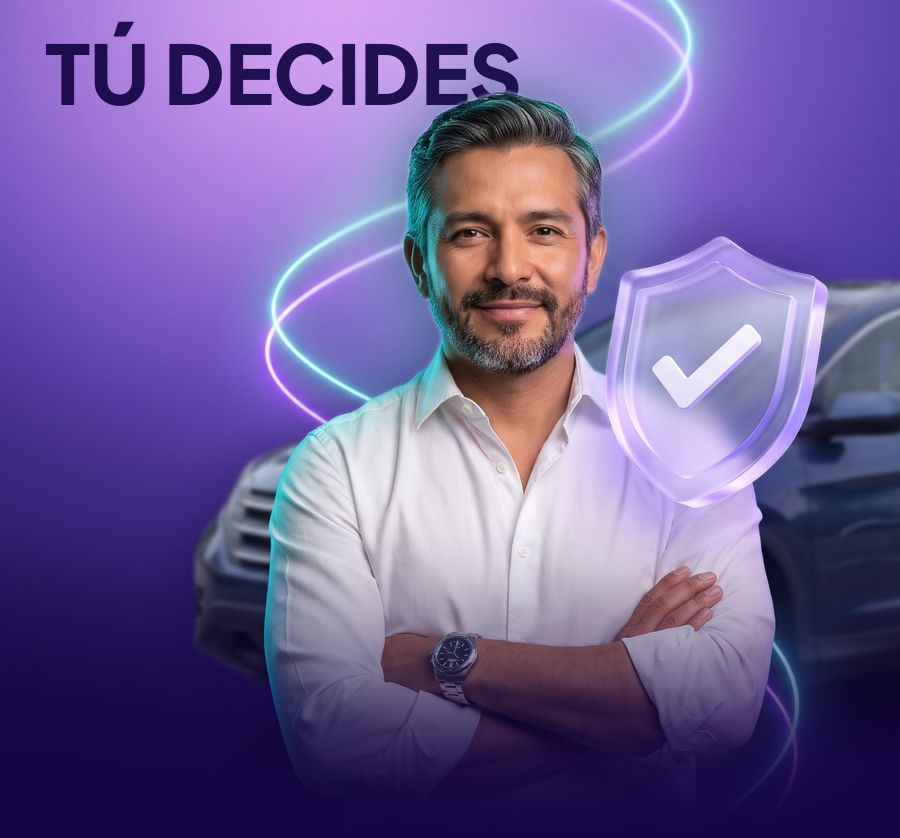
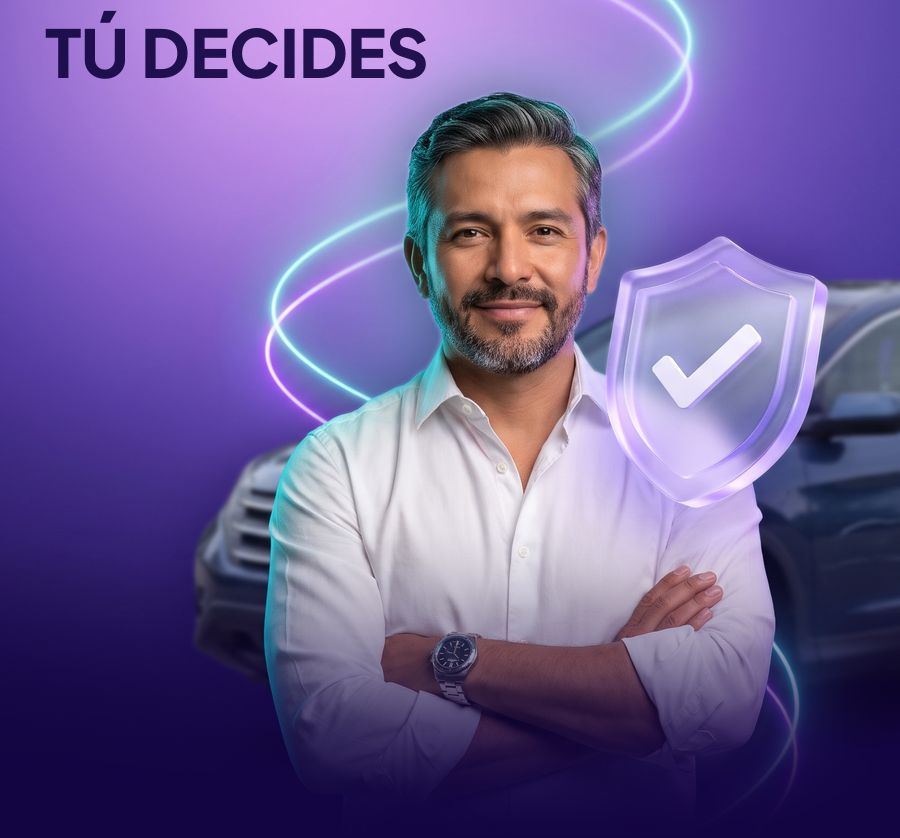
feat(correos): Revendedores 5 con «TÚ DECIDES» libre de la cabeza y valorizar gratis en 3 y 6

Changed region(s): [[0.0311, 0.0, 0.5911, 0.1241]]

diff --git a/src/emails/boletines/campanaRevendedores.ts b/src/emails/boletines/campanaRevendedores.ts
@@ -99,19 +99,19 @@ const DEFS: Def[] = [
     id: 'revendedores-3-como-funciona',
     name: 'Revendedores 3 — cómo funciona: valoriza, publica, recibe propuestas y negocia',
     subject: 'Así publicas tu carro en VMC, paso a paso',
-    preheader: 'Valoriza, publica en Negociable, recibe propuestas y negocia.',
+    preheader: 'Valoriza gratis, publica en Negociable, recibe propuestas y negocia.',
     stage: 'Cómo funciona', leadsTo: ['revendedores-4-costos'],
     hero: hero({ img: `${HERO}/revendedores-3.jpg`, imgM: `${HERO}/revendedores-3-m.jpg`, bg: '#422515', alt: 'Paso a paso — Revendedor fotografía su camioneta para publicarla', eyebrow: 'Cómo funciona', title: `Valoriza, publica y ${acc('negocia tus propuestas')}.`, text: 'Todo desde Mi Garaje: pones tu unidad en venta y negocias con compradores de VMC.', cta: 'Valorizar mi carro', url: VALORIZA_URL }),
     body: [
       HOLA, gap(8),
       p('Ya conoces Negociable desde el lado del comprador: envías una propuesta y esperas la respuesta. Ahora te toca el otro lado.'),
       gap(16),
-      p(`Empiezas valorizando tu carro para tener una referencia antes de definir tu expectativa de venta. Luego lo publicas en modalidad Negociable y ${b('las propuestas llegan a tu Mi Garaje')}.`),
+      p(`Empiezas valorizando tu carro, que es gratis, para tener una referencia antes de definir tu expectativa de venta. Luego lo publicas en modalidad Negociable y ${b('las propuestas llegan a tu Mi Garaje')}.`),
       gap(16),
       p('Con cada propuesta eliges: aceptarla, rechazarla o enviar una contrapropuesta.'),
-      gap(28), cel(`${CEL}/formulario.png`, 'Formulario de valorización de Mi Garaje con marca, año, modelo y kilometraje', '', 'Tu venta en tres pasos.', [['valorizaciones', '1. Valoriza tu carro', 'Ten una referencia para definir tu expectativa de venta.'], ['publicar', '2. Publica en Negociable', 'Sube tu unidad y deja claro cuánto esperas.'], ['negociaciones', '3. Recibe y negocia', 'Acepta, rechaza o envía una contrapropuesta.']]),
+      gap(28), cel(`${CEL}/formulario.png`, 'Formulario de valorización de Mi Garaje con marca, año, modelo y kilometraje', '', 'Tu venta en tres pasos.', [['valorizaciones', '1. Valoriza tu carro gratis', 'Ten una referencia para definir tu expectativa de venta.'], ['publicar', '2. Publica en Negociable', 'Sube tu unidad y deja claro cuánto esperas.'], ['negociaciones', '3. Recibe y negocia', 'Acepta, rechaza o envía una contrapropuesta.']]),
       gap(24), note('La valorización es un <b>valor referencial con fecha</b>: te orienta para fijar tu precio. No es un precio fijo de venta.'),
-      gap(32), closing('valorizaciones', 'Empieza por el primer paso.', '<b>Valoriza tu carro y define tu expectativa de venta.</b><br>Cuando estés listo, publícalo desde Mi Garaje.', 'Valorizar mi carro', VALORIZA_URL),
+      gap(32), closing('valorizaciones', 'Empieza por el primer paso.', '<b>Valoriza tu carro gratis y define tu expectativa de venta.</b><br>Cuando estés listo, publícalo desde Mi Garaje.', 'Valorizar mi carro', VALORIZA_URL),
       gap(24), ps(`¿Ya tienes claro tu precio? Puedes ir directo a <a href="${PUBLICAR_URL}" target="_blank" style="font-weight:700;color:#8460e5;text-decoration:underline;">publicar tu carro</a>.`),
     ],
   },
@@ -166,10 +166,10 @@ const DEFS: Def[] = [
       gap(16),
       p(`Lo que queda es dar el primer paso. ${b('Elige el carro que quieres mover y publícalo hoy')}.`),
       gap(16),
-      p('Si todavía tienes dudas sobre el precio, valorízalo primero y define tu expectativa de venta con una referencia.'),
+      p('Si todavía tienes dudas sobre el precio, valorízalo gratis primero y define tu expectativa de venta con una referencia.'),
       gap(28), cel(INICIO, INICIO_ALT, '', 'Tu primera publicación, en resumen.', [['publicar', 'Un solo pago', '25 SubasCoins y tu publicación se mantiene activa hasta que vendas.'], ['precio', '0% de comisión al vender', 'La comisión la paga el comprador.'], ['negociaciones', 'Tú decides', 'Acepta, rechaza o envía una contrapropuesta.']]),
       gap(32), closing('publicar', '¿Qué unidad vas a rotar primero?', '<b>Publícala hoy en VMC.</b><br>Y sigue comprando para tu inventario como siempre.', CTA, PUBLICAR_URL),
-      gap(24), ps(`¿Primero quieres una referencia de precio? <a href="${VALORIZA_URL}" target="_blank" style="font-weight:700;color:#8460e5;text-decoration:underline;">Valoriza tu carro aquí</a>.`),
+      gap(24), ps(`¿Primero quieres una referencia de precio? <a href="${VALORIZA_URL}" target="_blank" style="font-weight:700;color:#8460e5;text-decoration:underline;">Valoriza tu carro gratis aquí</a>.`),
     ],
   },
 ];
